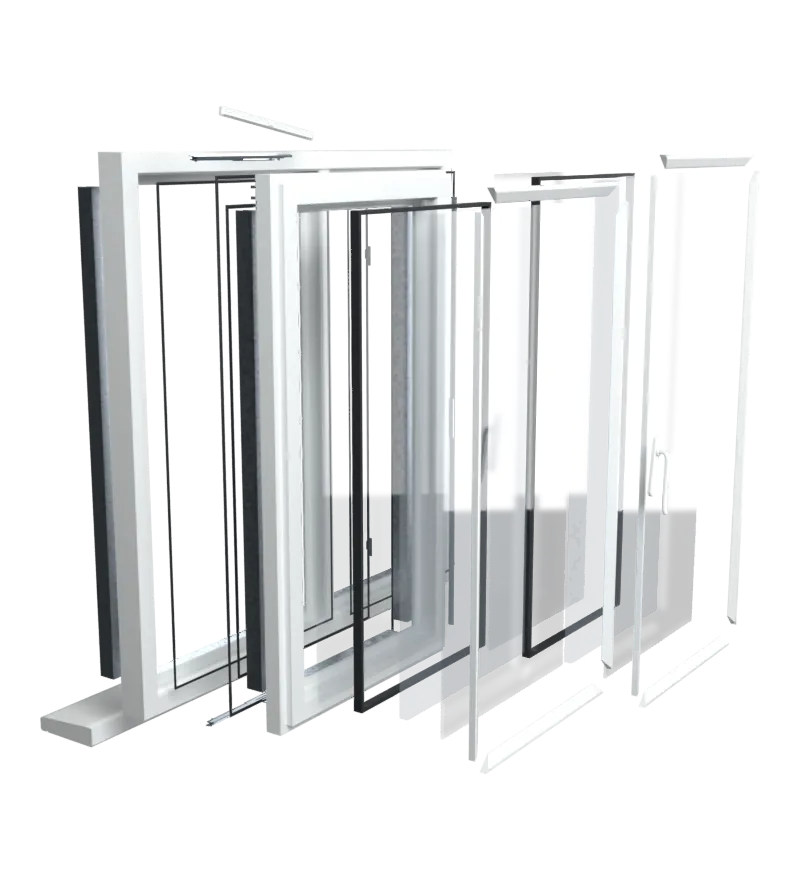
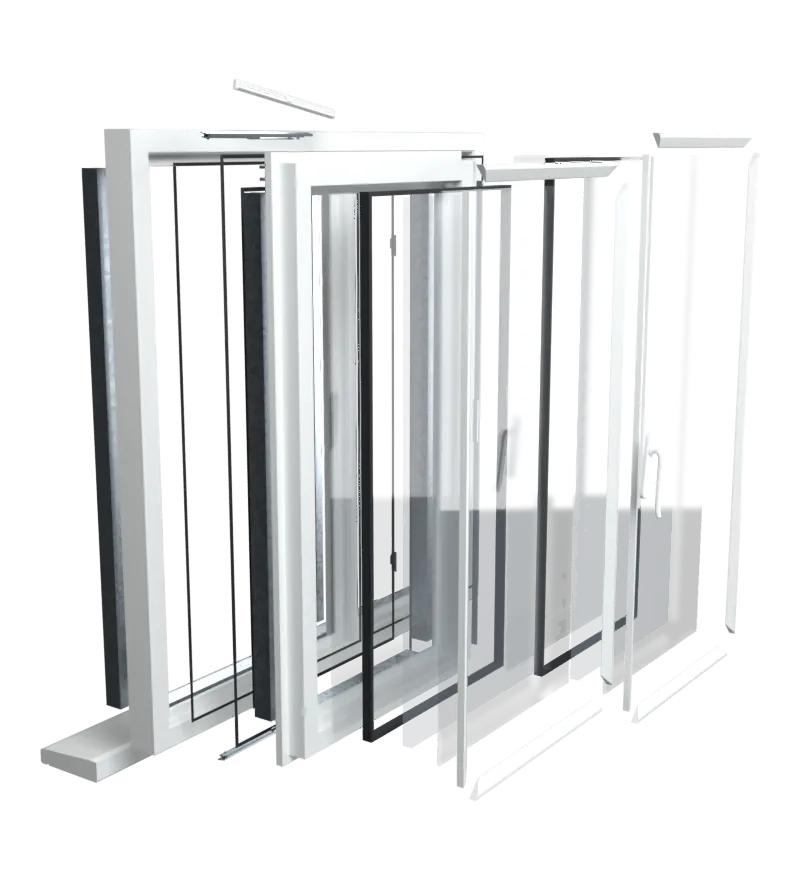
Superior windows: the sash nests into the frame, static mode tightened
Claude-Session: https://claude.ai/code/session_01PjrVLjn8Jrbo164iStmkSz

Changed region(s): [[0.0312, 0.092, 0.9375, 0.9205], [0.9062, 0.7057, 0.9375, 0.7364], [0.875, 0.7364, 0.9062, 0.767]]

diff --git a/concepts/superior-trade-frames/windows.html b/concepts/superior-trade-frames/windows.html
@@ -146,21 +146,21 @@
 <p class="gap">To confirm with Donna: which VEKA system you stock, the glass (unit thickness, argon or air, toughened), the hardware brand and lock type, and colours and foils beyond white and rosewood.</p>
 </div>
 <figure class="cut">
-<svg viewBox="-24.00 -76.00 198.00 188.00" role="img" aria-label="Section through the opening side of the model: frame 70 mm deep with a 67 mm face, sash 76 mm, glazing bead 28 mm." font-family="inherit" font-size="8">
-<g id="frame" fill="none" stroke="currentColor" stroke-width="0.6" stroke-linejoin="round"><path d="M0.00 2.00 L2.00 0.00 L44.00 0.00 L46.00 2.00 L46.00 17.00 L66.00 17.00 L67.00 18.00 L67.00 24.00 L66.00 25.00 L46.00 25.00 L46.00 65.00 L41.00 70.00 L2.00 70.00 L0.00 68.00 Z" data-depth-faces="0 70.0" data-face="0 67.0"/></g>
-<g id="sash" fill="none" stroke="currentColor" stroke-width="0.6" stroke-linejoin="round"><path d="M40.00 -40.00 L42.00 -42.00 L114.50 -42.00 L116.00 -40.50 L116.00 -32.00 L115.00 -31.00 L98.00 -31.00 L98.00 13.00 L97.00 14.00 L59.00 14.00 L58.00 13.00 L58.00 -3.00 L41.00 -3.00 L40.00 -4.00 Z" data-face="40.0 116.0"/></g>
-<g id="bead" fill="none" stroke="currentColor" stroke-width="0.6" stroke-linejoin="round"><path d="M98.00 0.00 L126.00 0.00 L126.00 1.20 L124.50 2.70 L106.00 13.00 L104.00 13.50 L98.00 13.50 Z" data-face="98.0 126.0"/></g>
-<g id="unit" fill="none" stroke="currentColor" stroke-width="0.5"><rect x="101.00" y="-28.00" width="67.00" height="4.00"/><rect x="101.00" y="-4.00" width="67.00" height="4.00"/><rect x="105.00" y="-24.00" width="8" height="20.00" fill="currentColor"/></g>
-<g id="gaskets" fill="currentColor" stroke="none"><polygon points="59.50,17.00 65.50,17.00 65.05,15.85 64.45,14.88 63.56,14.23 62.50,14.00 61.44,14.23 60.55,14.88 59.95,15.85"/><polygon points="103.00,-31.00 110.00,-31.00 109.47,-29.85 108.78,-28.88 107.73,-28.23 106.50,-28.00 105.27,-28.23 104.22,-28.88 103.53,-29.85"/><polygon points="44.00,-3.00 51.00,-3.00 50.47,-1.85 49.78,-0.88 48.73,-0.23 47.50,0.00 46.27,-0.23 45.22,-0.88 44.53,-1.85"/></g>
-<g id="chambers" fill="none" stroke="currentColor" stroke-width="0.35" stroke-dasharray="1.6 1.2"><path d="M5.00 5.00 L41.00 5.00 L41.00 13.00 L5.00 13.00 Z"/><path d="M5.00 16.00 L41.00 16.00 L41.00 57.00 L5.00 57.00 Z"/><path d="M5.00 60.00 L39.00 60.00 L39.00 65.00 L5.00 65.00 Z"/><path d="M49.00 18.50 L64.00 18.50 L64.00 23.50 L49.00 23.50 Z"/><path d="M44.00 -38.00 L55.00 -38.00 L55.00 -6.00 L44.00 -6.00 Z"/><path d="M61.00 -38.00 L95.00 -38.00 L95.00 -37.00 L61.00 -37.00 Z"/><path d="M61.00 -34.00 L95.00 -34.00 L95.00 2.00 L61.00 2.00 Z"/><path d="M61.00 5.00 L95.00 5.00 L95.00 11.00 L61.00 11.00 Z"/><path d="M101.00 -39.00 L113.00 -39.00 L113.00 -34.00 L101.00 -34.00 Z"/></g>
+<svg viewBox="-24.00 -54.00 198.00 166.00" role="img" aria-label="Section through the opening side of the model: frame 70 mm deep with a 67 mm face, sash 76 mm, glazing bead 28 mm." font-family="inherit" font-size="8">
+<g id="frame" fill="none" stroke="currentColor" stroke-width="0.6" stroke-linejoin="round"><path d="M0.00 2.00 L2.00 0.00 L44.00 0.00 L46.00 2.00 L46.00 39.00 L66.00 39.00 L67.00 40.00 L67.00 46.00 L66.00 47.00 L46.00 47.00 L46.00 65.00 L41.00 70.00 L2.00 70.00 L0.00 68.00 Z" data-depth-faces="0 70.0" data-face="0 67.0"/></g>
+<g id="sash" fill="none" stroke="currentColor" stroke-width="0.6" stroke-linejoin="round"><path d="M40.00 -18.00 L42.00 -20.00 L114.50 -20.00 L116.00 -18.50 L116.00 -10.00 L115.00 -9.00 L98.00 -9.00 L98.00 35.00 L97.00 36.00 L59.00 36.00 L58.00 35.00 L58.00 -3.00 L41.00 -3.00 L40.00 -4.00 Z" data-face="40.0 116.0"/></g>
+<g id="bead" fill="none" stroke="currentColor" stroke-width="0.6" stroke-linejoin="round"><path d="M98.00 22.00 L126.00 22.00 L126.00 23.20 L124.50 24.70 L106.00 35.00 L104.00 35.50 L98.00 35.50 Z" data-face="98.0 126.0"/></g>
+<g id="unit" fill="none" stroke="currentColor" stroke-width="0.5"><rect x="101.00" y="-6.00" width="67.00" height="4.00"/><rect x="101.00" y="18.00" width="67.00" height="4.00"/><rect x="105.00" y="-2.00" width="8" height="20.00" fill="currentColor"/></g>
+<g id="gaskets" fill="currentColor" stroke="none"><polygon points="59.50,39.00 65.50,39.00 65.05,37.85 64.45,36.88 63.56,36.23 62.50,36.00 61.44,36.23 60.55,36.88 59.95,37.85"/><polygon points="103.00,-9.00 110.00,-9.00 109.47,-7.85 108.78,-6.88 107.73,-6.23 106.50,-6.00 105.27,-6.23 104.22,-6.88 103.53,-7.85"/><polygon points="44.00,-3.00 51.00,-3.00 50.47,-1.85 49.78,-0.88 48.73,-0.23 47.50,0.00 46.27,-0.23 45.22,-0.88 44.53,-1.85"/></g>
+<g id="chambers" fill="none" stroke="currentColor" stroke-width="0.35" stroke-dasharray="1.6 1.2"><path d="M5.00 5.00 L41.00 5.00 L41.00 13.00 L5.00 13.00 Z"/><path d="M5.00 16.00 L41.00 16.00 L41.00 57.00 L5.00 57.00 Z"/><path d="M5.00 60.00 L39.00 60.00 L39.00 65.00 L5.00 65.00 Z"/><path d="M49.00 40.50 L64.00 40.50 L64.00 45.50 L49.00 45.50 Z"/><path d="M44.00 -16.00 L55.00 -16.00 L55.00 -6.00 L44.00 -6.00 Z"/><path d="M61.00 -16.00 L95.00 -16.00 L95.00 -15.00 L61.00 -15.00 Z"/><path d="M61.00 -12.00 L95.00 -12.00 L95.00 24.00 L61.00 24.00 Z"/><path d="M61.00 27.00 L95.00 27.00 L95.00 33.00 L61.00 33.00 Z"/><path d="M101.00 -17.00 L113.00 -17.00 L113.00 -12.00 L101.00 -12.00 Z"/></g>
 <g id="dimensions" stroke="currentColor" stroke-width="0.35" fill="none">
-<path d="M-2 0 H-16 M-2 70.0 H-16 M0 72.0 V84.0 M67.0 27.0 V84.0 M40.0 -44.0 V-56.0 M116.0 -44.0 V-56.0 M98.0 15.5 V94.0 M126.0 3.2 V94.0"/>
+<path d="M-2 0 H-16 M-2 70.0 H-16 M0 72.0 V84.0 M67.0 49.0 V84.0 M40.0 -22.0 V-34.0 M116.0 -22.0 V-34.0 M98.0 37.5 V94.0 M126.0 25.2 V94.0"/>
 <g id="dim-70" data-from="-12.00 0.00" data-to="-12.00 70.00"><line x1="-12.00" y1="0.00" x2="-12.00" y2="70.00"/><line x1="-13.80" y1="1.80" x2="-10.20" y2="-1.80"/><line x1="-13.80" y1="71.80" x2="-10.20" y2="68.20"/><text x="-14.50" y="36.80" text-anchor="end" stroke="none" fill="currentColor">70</text></g>
 <g id="dim-67" data-from="0.00 82.00" data-to="67.00 82.00"><line x1="0.00" y1="82.00" x2="67.00" y2="82.00"/><line x1="-1.80" y1="83.80" x2="1.80" y2="80.20"/><line x1="65.20" y1="83.80" x2="68.80" y2="80.20"/><text x="33.50" y="89.00" text-anchor="middle" stroke="none" fill="currentColor">67</text></g>
-<g id="dim-76" data-from="40.00 -52.00" data-to="116.00 -52.00"><line x1="40.00" y1="-52.00" x2="116.00" y2="-52.00"/><line x1="38.20" y1="-50.20" x2="41.80" y2="-53.80"/><line x1="114.20" y1="-50.20" x2="117.80" y2="-53.80"/><text x="78.00" y="-55.00" text-anchor="middle" stroke="none" fill="currentColor">76</text></g>
+<g id="dim-76" data-from="40.00 -30.00" data-to="116.00 -30.00"><line x1="40.00" y1="-30.00" x2="116.00" y2="-30.00"/><line x1="38.20" y1="-28.20" x2="41.80" y2="-31.80"/><line x1="114.20" y1="-28.20" x2="117.80" y2="-31.80"/><text x="78.00" y="-33.00" text-anchor="middle" stroke="none" fill="currentColor">76</text></g>
 <g id="dim-28" data-from="98.00 92.00" data-to="126.00 92.00"><line x1="98.00" y1="92.00" x2="126.00" y2="92.00"/><line x1="96.20" y1="93.80" x2="99.80" y2="90.20"/><line x1="124.20" y1="93.80" x2="127.80" y2="90.20"/><text x="112.00" y="99.00" text-anchor="middle" stroke="none" fill="currentColor">28</text></g>
 </g>
-<g id="words" fill="currentColor" stroke="none"><text x="0.0" y="-66.0">Outside</text><text x="0.0" y="108.0">Inside</text><text x="9.0" y="40.0">frame</text><text x="62.0" y="-12.0">sash</text><text x="129.0" y="22.0">bead</text><text x="119.0" y="-34.0">sealed unit</text></g>
+<g id="words" fill="currentColor" stroke="none"><text x="0.0" y="-44.0">Outside</text><text x="0.0" y="108.0">Inside</text><text x="9.0" y="40.0">frame</text><text x="62.0" y="10.0">sash</text><text x="129.0" y="44.0">bead</text><text x="119.0" y="-12.0">sealed unit</text></g>
 </svg>
 <figcaption>Cut through the opening side of the model. The dimensioned sizes are VEKA's. The shapes are simplified, and the chambers (dashed) are stand-ins: VEKA doesn't publish them.</figcaption>
 </figure>

diff --git a/concepts/superior-trade-frames/window.css b/concepts/superior-trade-frames/window.css
@@ -34,21 +34,24 @@
 html:not(.explode-ok) .step + .step { margin-top: var(--s5); }
 html:not(.explode-ok) .still { margin: var(--s4) 0 0; }
 html:not(.explode-ok) [data-step="apart"] .still { margin: 0 0 var(--s4); }
+html:not(.explode-ok) :is(.panel, .source) > :last-child { margin-bottom: 0; }
 @media (min-width: 900px) {
-  /* Two plates: the window in film beside the words, then the window apart across the field */
+  /* Static only, every row as tall as its content. The window in film beside the words, the
+     film line at the foot of that pair (the still is at least 300px tall and never sets a gap
+     of its own); the window apart across the field; the labels, with the count and the line
+     after it straight under one another beside them. The last row, the only flexible one, takes the labels' extra height. */
   html:not(.explode-ok) .steps { display: grid; grid-template-columns: minmax(0, 5fr) minmax(0, 7fr); column-gap: var(--s6);
-    grid-template-areas: "a f" "b f" "x x" "c d" "c e"; grid-template-rows: auto 1fr auto auto auto; }
+    grid-template-areas: "a f" "b f" "x x" "c d" "c e" "c ."; grid-template-rows: auto auto auto auto auto 1fr; }
   html:not(.explode-ok) .step { display: contents; }
   html:not(.explode-ok) .still { margin: 0; }
-  [data-step="film"] .panel { grid-area: a; }
-  [data-step="film"] .still { grid-area: f; }
-  [data-step="film"] .still img { aspect-ratio: 1; object-fit: cover; }
-  [data-step="peel"] .panel { grid-area: b; align-self: end; padding-bottom: var(--s5); }
-  [data-step="apart"] .still { grid-area: x; }
-  [data-step="apart"] .panel { grid-area: c; }
-  [data-step="count"] .panel { grid-area: d; }
-  [data-step="together"] .panel { grid-area: e; align-self: end; }
-  html:not(.explode-ok) [data-step="apart"] .still { margin: var(--s4) 0 var(--s6); }
+  html:not(.explode-ok) [data-step="film"] .panel { grid-area: a; }
+  html:not(.explode-ok) [data-step="film"] .still { grid-area: f; position: relative; min-height: 300px; }
+  html:not(.explode-ok) [data-step="film"] .still img { position: absolute; inset: 0; height: 100%; object-fit: contain; }
+  html:not(.explode-ok) [data-step="peel"] .panel { grid-area: b; align-self: end; }
+  html:not(.explode-ok) [data-step="apart"] .still { grid-area: x; margin: var(--s4) 0 var(--s6); }
+  html:not(.explode-ok) [data-step="apart"] .panel { grid-area: c; }
+  html:not(.explode-ok) [data-step="count"] .panel { grid-area: d; }
+  html:not(.explode-ok) [data-step="together"] .panel { grid-area: e; margin-top: var(--s4); }
 }
 
 /* explode-ok: the sequence's height is reserved from first paint, and the stage sticks for all
